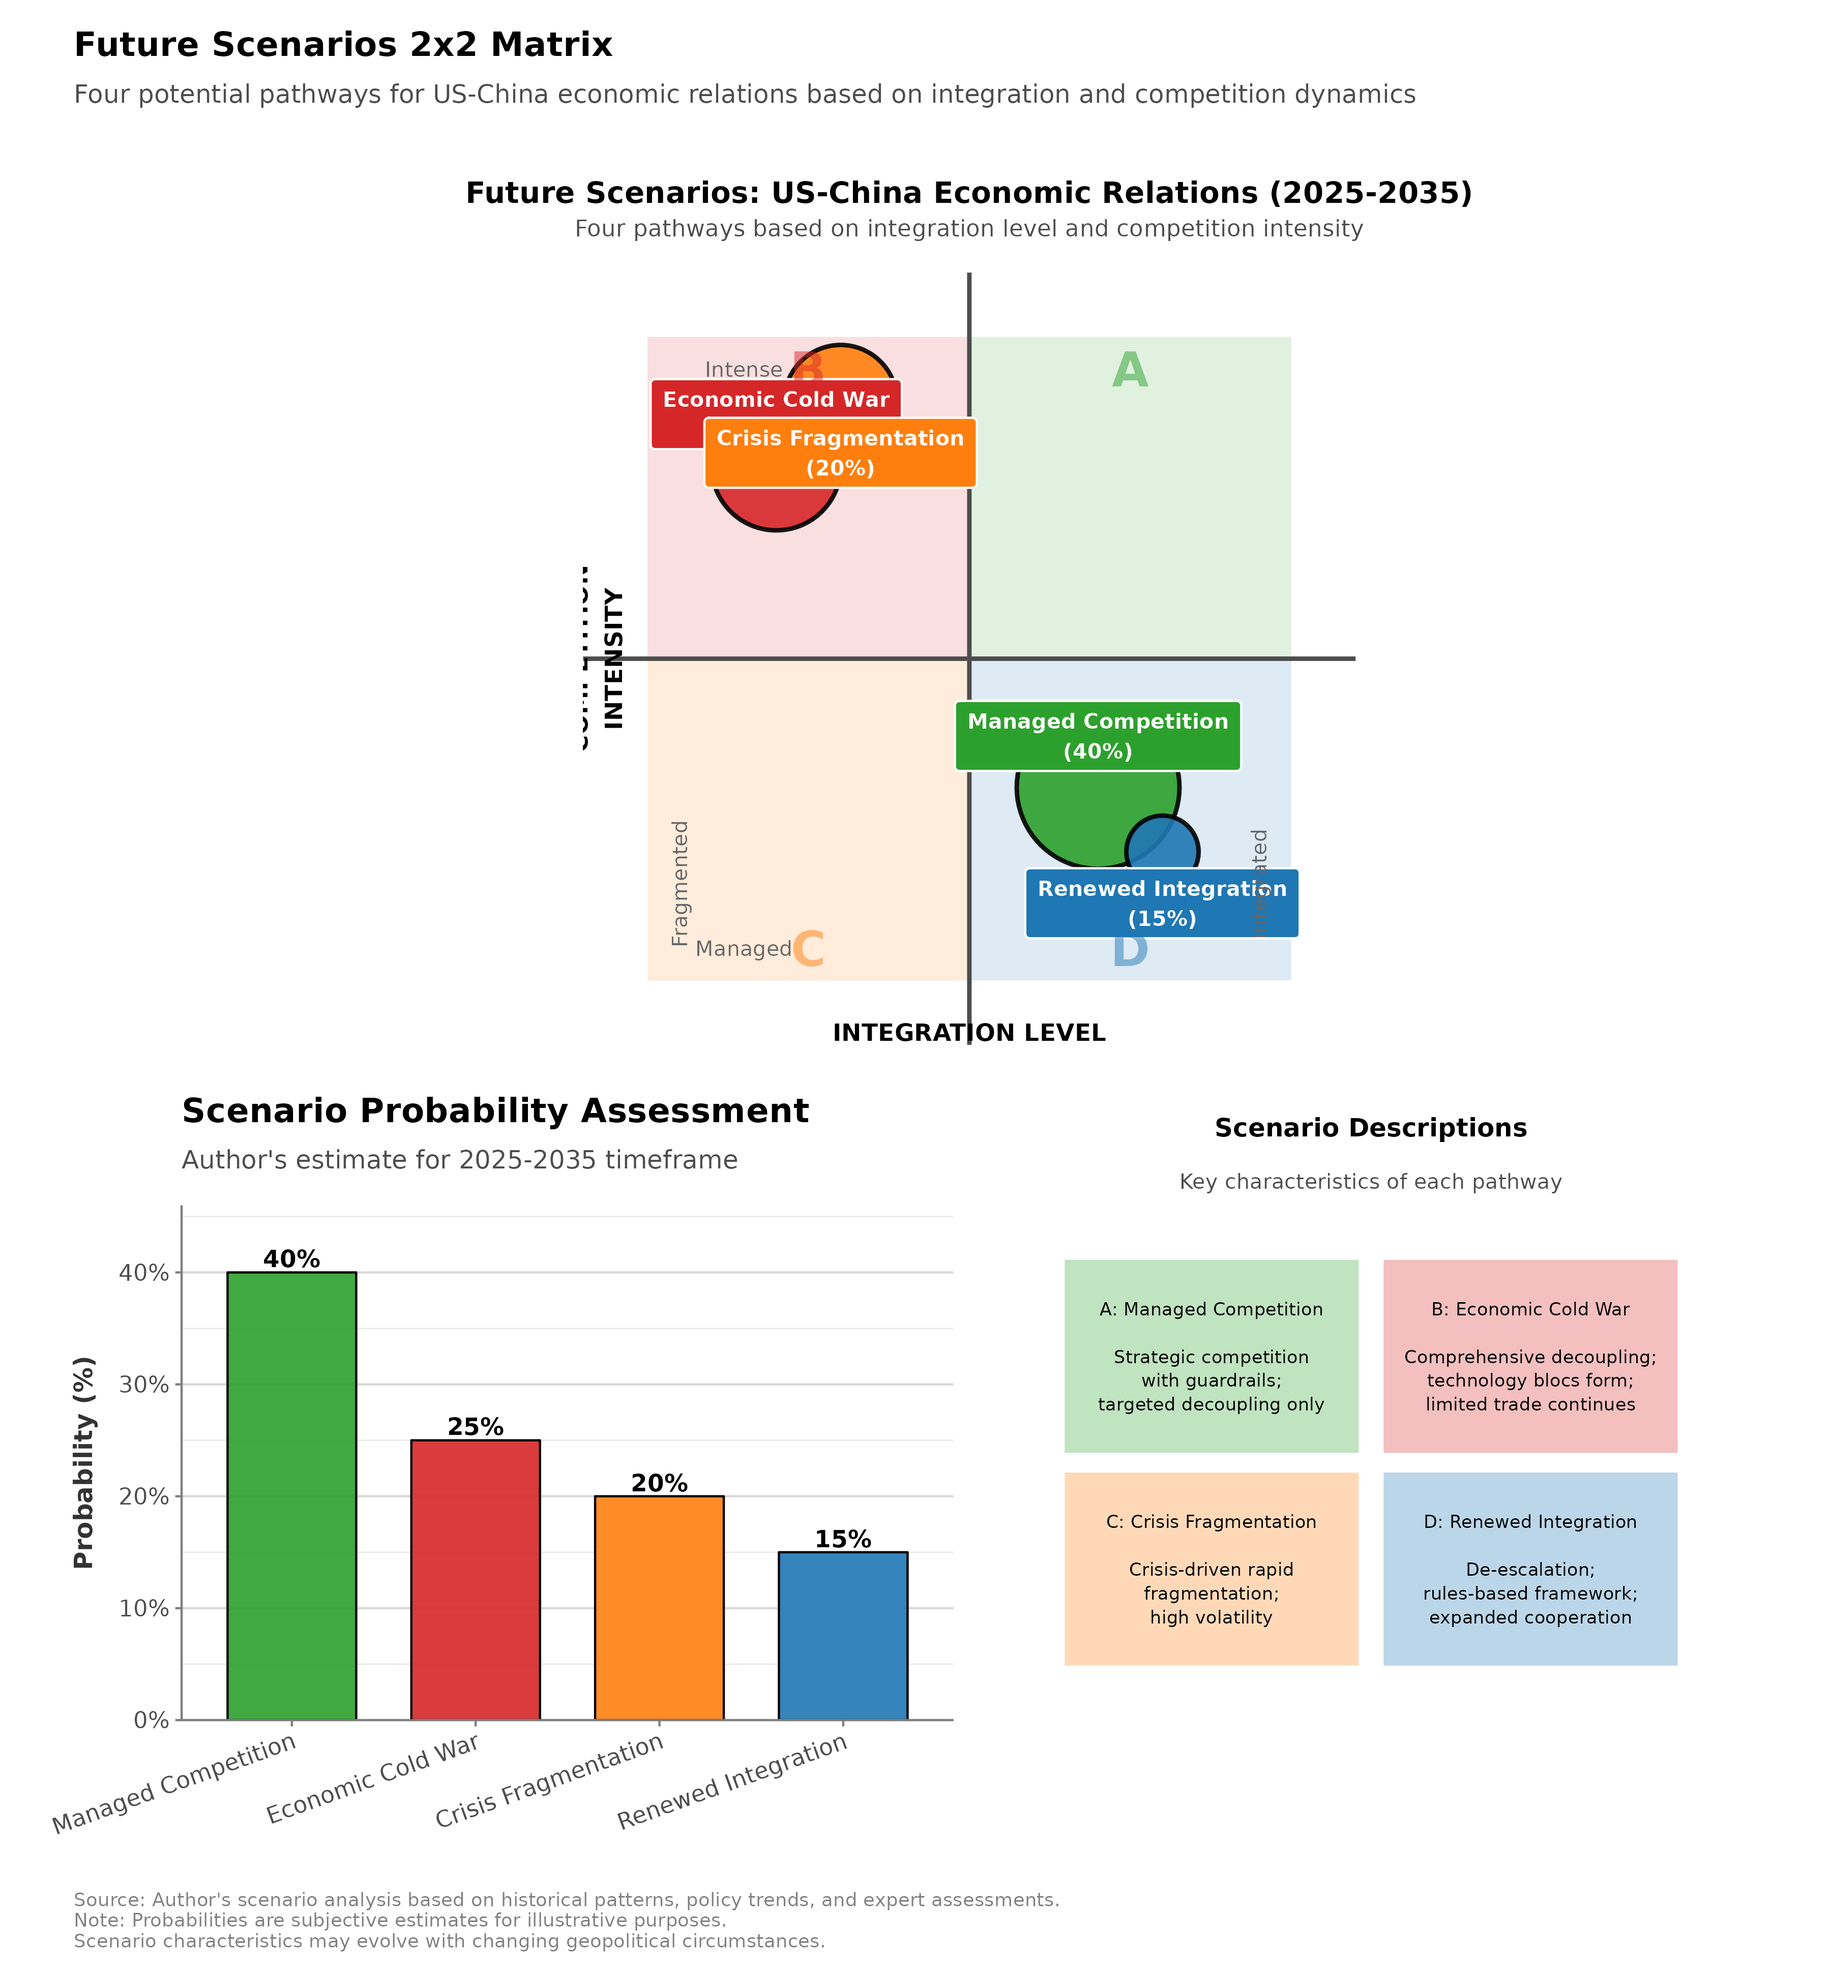
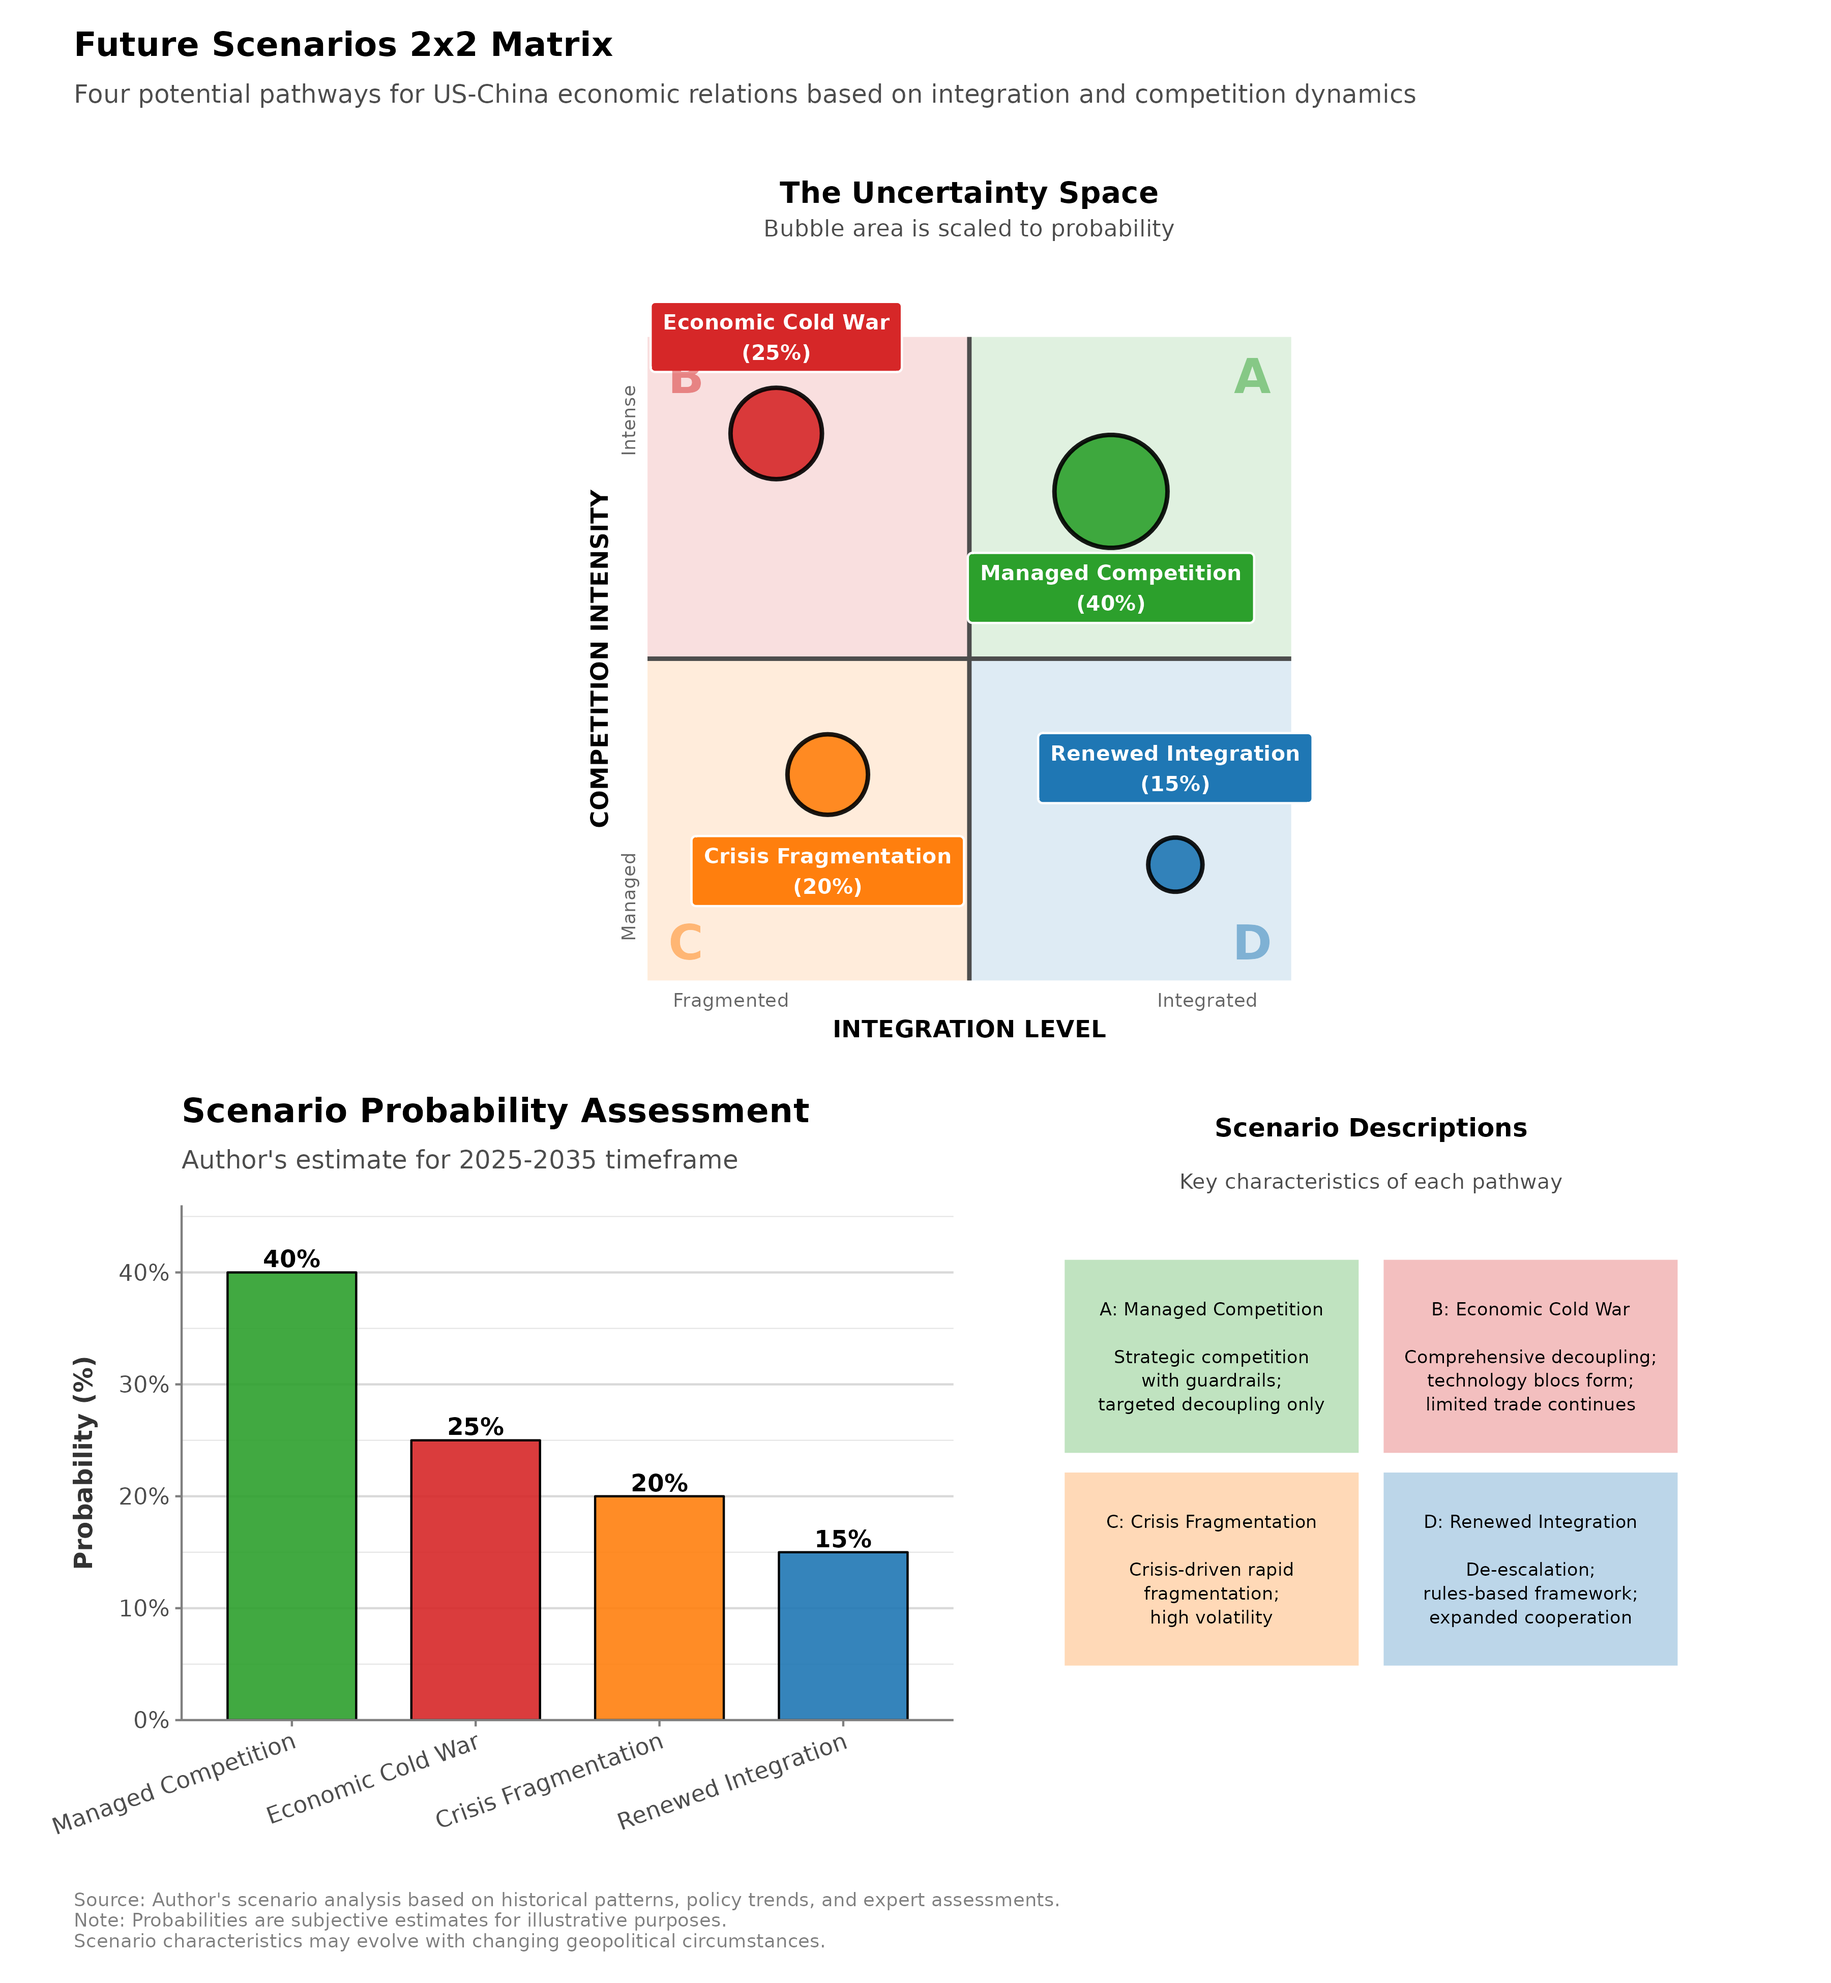
Repair and embed the last two orphan figures; the inventory is now empty
The scenario matrix was the one orphan worth rescuing, and it needed more than
layout work. Its bubbles contradicted its own quadrants: Managed Competition was
plotted at low competition intensity, landing bottom-right under a green background
and an "A" label drawn top-right, while Crisis Fragmentation was plotted at 0.9
intensity and landed top-left in Economic Cold War's quadrant. Conformed the
positions to the scheme the rects and letters already asserted — A top-right,
B top-left, C bottom-left, D bottom-right — with a comment recording that the
positions and the quadrant furniture have to agree.

Also on that figure: the crossing axes were drawn with geom_hline/geom_vline and so
ran the full panel width, straight through the axis captions; the labels sat on top
of their own bubbles; the quadrant letters collided with the labels; and the panel
repeated the figure's own title. All fixed, and it now reads as a clean 2x2 whose
probabilities match Chapter 10's text.

The dual-use matrix needed its labels rescued — ten technologies overlapping in one
corner — which ggrepel resolves. Its scores are the author's ordinal judgments and
the subtitle, caption, and prose now all say so plainly. That is a deliberate
distinction from the nine figures deleted in the previous commit: those asserted
unsourced quantities as findings, whereas this one visualises a framework the
chapter teaches and labels its basis honestly. Worth the author's eye, since it is
[…]

Changed region(s): [[0.3422, 0.1551, 0.7156, 0.5274], [0.2489, 0.0931, 0.8089, 0.1241], [0.3111, 0.2482, 0.3422, 0.4033]]

diff --git a/chapters/chapter_4.md b/chapters/chapter_4.md
@@ -312,6 +312,13 @@ Quantum competition differs from the semiconductor and AI contests in four ways.
 
 ---
 
+Figure 4.3 gathers the frontier technologies this chapter treats and places each by how strongly it serves commercial and military ends. The scores are ordinal judgments rather than measurements — they are the author's, and the figure is offered as a way of organising the problem rather than as evidence about it. Read that way, two things stand out. Almost everything sits in the upper-right: for the technologies that matter strategically now, the dual-use character is not an occasional complication but the normal condition, which is why export controls in this domain cannot avoid hitting civilian applications. And the lower panel shows that leadership does not track dual-use intensity at all — China leads on hypersonics and 5G, the United States on quantum and space — so there is no single frontier to defend, only a portfolio of them.
+
+<figure class="book-figure">
+  <img src="../figures/fig_04_03_dual_use_matrix.png" alt="Dual-use technology assessment matrix plotting commercial against military application intensity, with a US-China leadership comparison.">
+  <figcaption>Figure 4.3: Frontier technologies by commercial and military application intensity (author's ordinal assessment), with relative U.S. and Chinese capability.</figcaption>
+</figure>
+
 ### Space Systems: Dual-Use Infrastructure and Military Competition
 
 Space capabilities have become essential infrastructure for modern economies and militaries: satellites provide communications, navigation (GPS/Galileo/BeiDou), earth observation (weather, agriculture, intelligence), and increasingly commercial services (internet connectivity, remote sensing). This dual-use character—where civilian and military space applications share common technologies—makes space a domain of intensifying strategic competition with economic and security dimensions.
@@ -358,11 +365,11 @@ The biosecurity risks of this competition run in several directions at once: red
 
 Research and development investment determines long-term technological leadership, yet measuring and comparing R&D spending across countries involves definitional challenges, data quality concerns, and questions about efficiency versus quantity. Nevertheless, broad patterns reveal intensifying competition where Chinese R&D investment rivals or exceeds American levels while questions persist about which system generates more innovation per dollar invested.
 
-Figure 4.3 plots these totals on the purchasing-power basis, where the convergence is genuine and the crossing point is near. On market exchange rates the same two series remain roughly a factor of two apart, and the gap between those two readings — not any dispute about the underlying data — is what most disagreements about Chinese research spending actually turn on.
+Figure 4.4 plots these totals on the purchasing-power basis, where the convergence is genuine and the crossing point is near. On market exchange rates the same two series remain roughly a factor of two apart, and the gap between those two readings — not any dispute about the underlying data — is what most disagreements about Chinese research spending actually turn on.
 
 <figure class="book-figure">
-  <img src="../figures/fig_04_03_rd_spending.png" alt="R&D spending by country from 1990-2024, showing the dramatic rise of Chinese investment.">
-  <figcaption>Figure 4.3: R&D spending by country from 1990-2024, showing the dramatic rise of Chinese investment.</figcaption>
+  <img src="../figures/fig_04_04_rd_spending.png" alt="R&D spending by country from 1990-2024, showing the dramatic rise of Chinese investment.">
+  <figcaption>Figure 4.4: R&D spending by country from 1990-2024, showing the dramatic rise of Chinese investment.</figcaption>
 </figure>
 
 Global R&D spending has grown dramatically and shifted eastward. World Bank and OECD data put it at roughly $2.2–2.5 trillion a year by 2021—about 2 percent of global GDP—with the growth concentrated in Asia (UNESCO Institute for Statistics 2023). The United States remains the largest single-country investor at market exchange rates, spending roughly $806 billion in 2021 (about 3.5 percent of GDP) and more since. How far China has closed the gap depends entirely on the yardstick. At market exchange rates Chinese R&D was about $430 billion in 2021 (2.4 percent of GDP), rising to RMB 3.61 trillion in 2024 (2.68 percent of GDP)—on that basis U.S. spending remains nearly double, roughly $990 billion against about $500 billion in 2024. In purchasing-power-parity terms, which correct for China's lower input and wage costs, the same 2021 outlay was closer to $650–670 billion, and on the OECD's PPP series Chinese R&D reached roughly $840 billion in 2024 against about $990 billion for the United States—close enough that the crossing point is now a question of when rather than whether, though it had not yet occurred (OECD, *Main Science and Technology Indicators*; NBS 2025; NSF *Science and Engineering Indicators* 2024). The methodological gap between those two bases—not any statistical sleight of hand—is why headline claims of Chinese "parity" or "lead" must always name their yardstick. The European Union collectively invests substantial sums ($386 billion in 2021), but fragmentation across 27 member states dilutes coordination and scale, while Japan ($177 billion), South Korea (around $110–120 billion), and Taiwan sustain high R&D intensity of 3–4 percent of GDP on smaller absolute totals (OECD 2023).
@@ -562,11 +569,11 @@ In January 2023, the U.S., Japan, and Netherlands reached an understanding — n
 
 ---
 
-Figure 4.4 shows what a decade of escalating restriction did to a single firm, and what it did not do. Huawei's consumer business collapsed after the 2020 foreign direct product rule cut off its access to advanced chips, taking total revenue down by more than a quarter in a single year. But the firm did not fail: carrier and enterprise revenue held, and by 2024 total revenue had recovered to roughly its 2020 level. Read alongside the substitution margin, the trajectory is a caution against reading early sanctions impact as a permanent verdict.
+Figure 4.5 shows what a decade of escalating restriction did to a single firm, and what it did not do. Huawei's consumer business collapsed after the 2020 foreign direct product rule cut off its access to advanced chips, taking total revenue down by more than a quarter in a single year. But the firm did not fail: carrier and enterprise revenue held, and by 2024 total revenue had recovered to roughly its 2020 level. Read alongside the substitution margin, the trajectory is a caution against reading early sanctions impact as a permanent verdict.
 
 <figure class="book-figure">
-  <img src="../figures/fig_04_04_huawei_impact.png" alt="Huawei revenue by business segment, 2015-2024, annotated by sanctions phase.">
-  <figcaption>Figure 4.4: Huawei revenue by business segment, 2015-2024. Shading marks the phases of U.S. restriction.</figcaption>
+  <img src="../figures/fig_04_05_huawei_impact.png" alt="Huawei revenue by business segment, 2015-2024, annotated by sanctions phase.">
+  <figcaption>Figure 4.5: Huawei revenue by business segment, 2015-2024. Shading marks the phases of U.S. restriction.</figcaption>
 </figure>
 
 ## Case Study: U.S. Semiconductor Export Controls (October 2022-2024)

diff --git a/chapters/chapter_10.md b/chapters/chapter_10.md
@@ -382,6 +382,13 @@ Institutionally, the G20 displaces the G7 as the primary coordination forum, BRI
 
 Even at fifteen percent, this scenario carries a practical implication: the institutional capacity for cooperation is far easier to preserve than to rebuild. Investment in cooperative frameworks during a period of tension is cheap insurance against a world in which they are suddenly needed, and the legitimacy deficits in current global governance — the ones the Global South names consistently and the West addresses intermittently — are precisely what would have to be repaired first.
 
+Figure 10.6 places the four scenarios on the two axes that generate them and sizes each by its probability. The quadrant structure is worth reading carefully, because it shows that the scenarios are not points on a single spectrum from cooperation to conflict. Managed competition and economic cold war differ mainly in integration, not in intensity — both are intensely competitive worlds. Crisis fragmentation is the low-intensity, low-integration case, which is why it feels less alarming than a cold war while being in some ways harder to navigate: there is no single adversary to organise policy around. The probabilities are the author's estimates, as the panel says, and their most defensible feature is their ordering rather than their levels.
+
+<figure class="book-figure">
+  <img src="../figures/fig_10_06_scenario_matrix.png" alt="Two-by-two matrix placing the four scenarios by integration level and competition intensity, with probability weights and scenario descriptions.">
+  <figcaption>Figure 10.6: The four scenarios mapped by integration level and competition intensity, sized by estimated probability.</figcaption>
+</figure>
+
 ### Cross-Scenario Lessons
 
 **Robust strategies effective across scenarios**:
